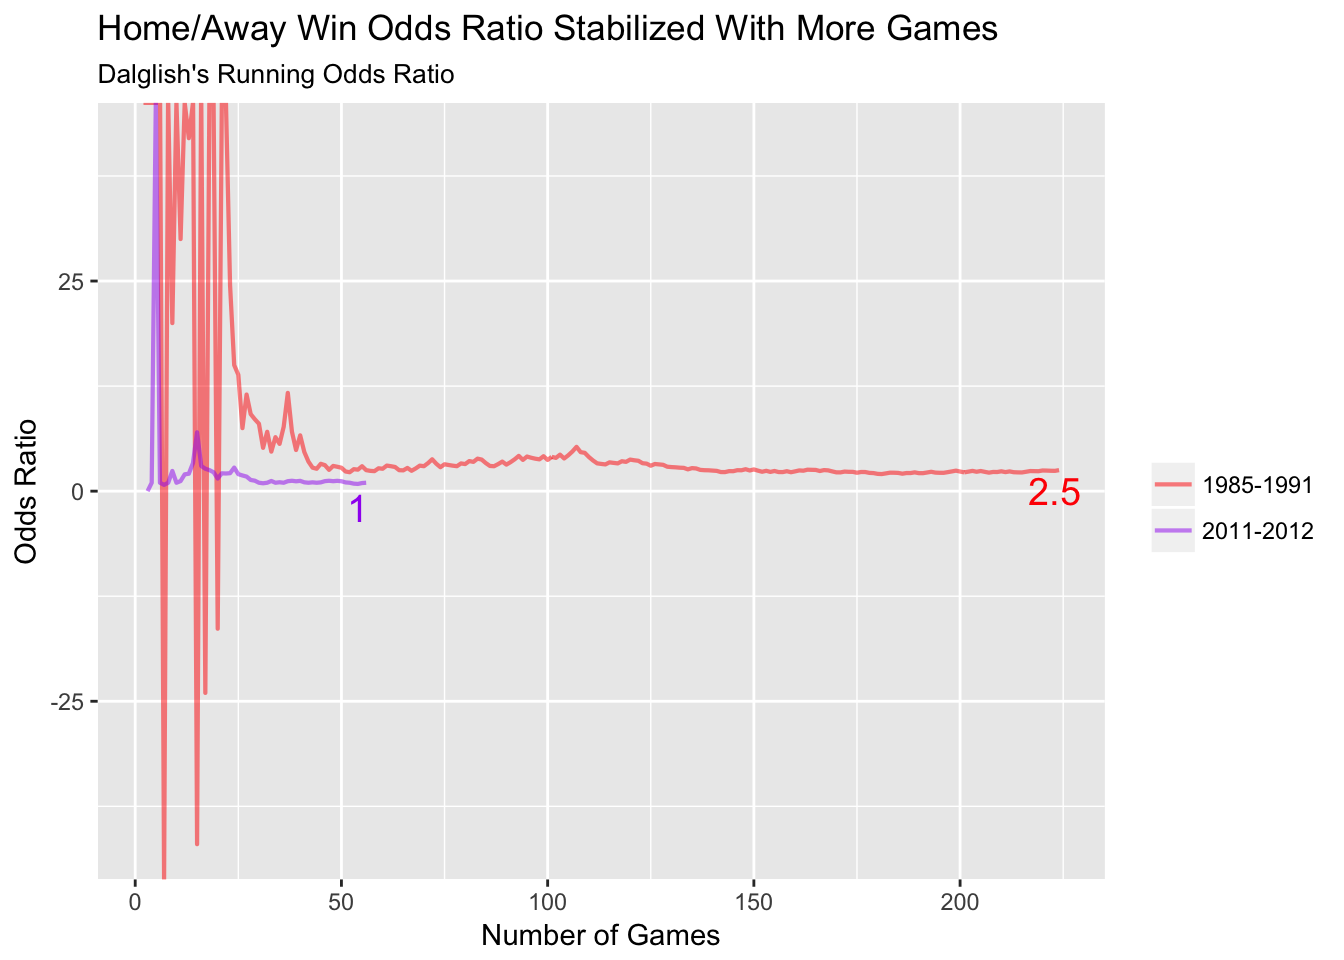
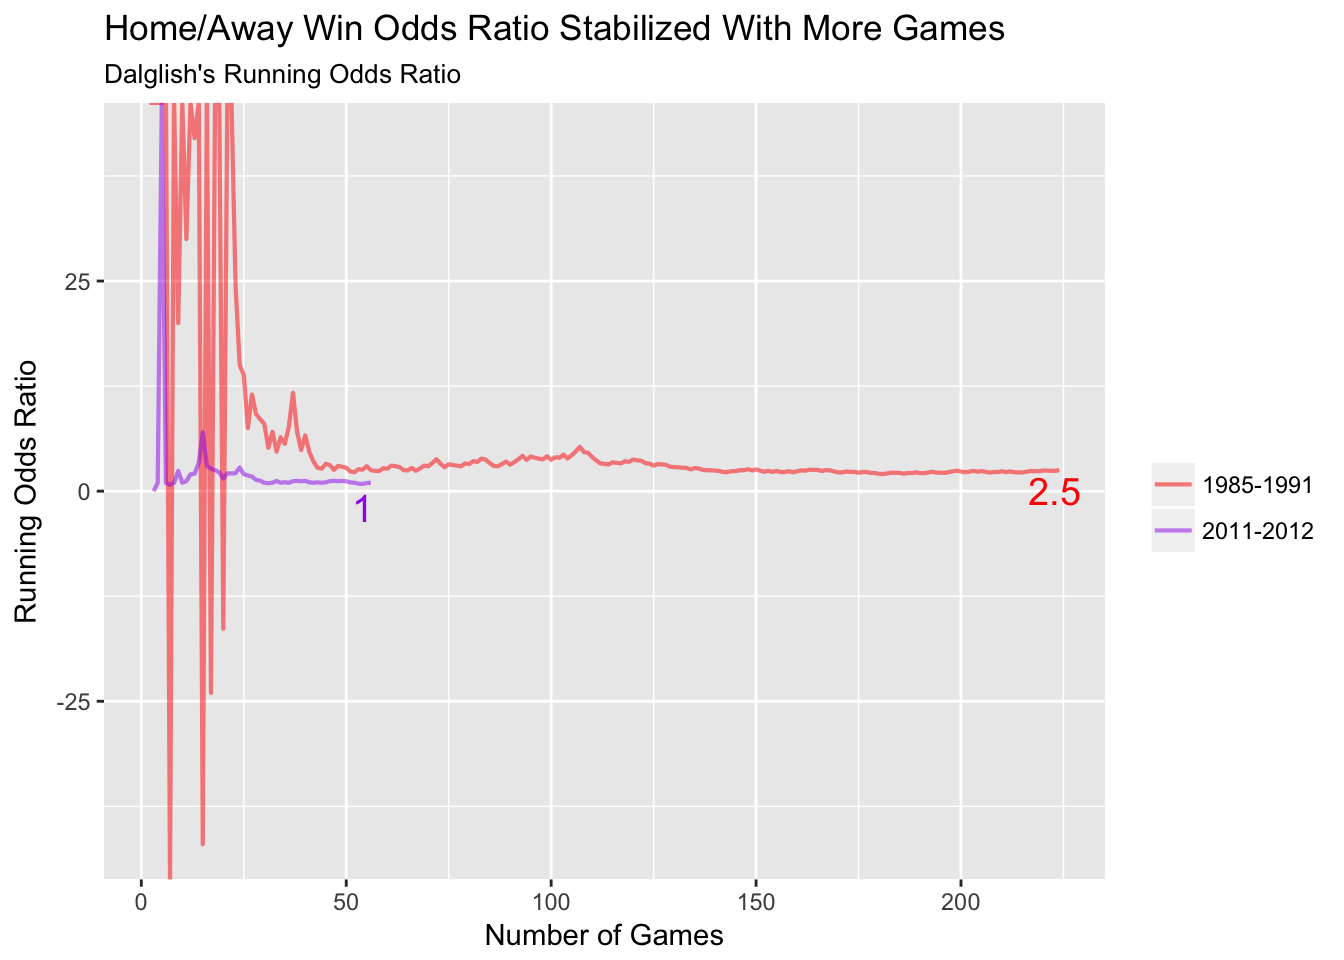
Add narrative

diff --git a/content/post/2017-11-28-king-kenny-comparison.html b/content/post/2017-11-28-king-kenny-comparison.html
@@ -1,6 +1,5 @@
 ---
-title: "Follow-Up: Comparing the Home and Away Wins of Kenny Dalglish’s Managerial
-  Runs"
+title: "Comparing Home and Away Wins of Kenny Dalglish’s Managerial Runs (Also, Did It Matter?)"
 author: Ryan Estrellado
 date: '2017-11-28'
 slug: king-kenny-comparison
@@ -11,7 +10,13 @@ draft: true
 
 
 
-{{% tweet "935230903177097216" %}}
+<p>After my <a href="https://ryanestrellado.netlify.com/post/lfc-home-and-away-odds/">first post</a>, <span class="citation">@HighlandDataSci</span> <a href="https://twitter.com/HighlandDataSci">on Twitter</a> had a great question: Was Kenny Dalglish’s home and away win odds ratio different during his first run as manager than his second?</p>
+{{% tweet "935343055535710208" %}}
+<p>About those circumstances: Dalglish lead Liverpool to 10 trophies between 1985 and 1991. He returned in 2011 and won the League Cup during his short run of games, but his <a href="http://www.bbc.com/sport/football/18073446">mission in the end was to guide the club</a> between the managerial run of Roy Hodsgon (who managed too few games for me to justify including in the analysis) and that of Brendan Rodgers.</p>
+<p>In this analysis we’ll compare the home and away win odds of Dalglish’s two seasons, but we’ll also start exploring the question “What does all this mean for winning games?”</p>
+<div id="setting-up-the-analysis" class="section level1">
+<h1>Setting Up the Analysis</h1>
+<p>For the sake of brevity, I’ll refer readers to <a href="https://ryanestrellado.netlify.com/post/lfc-home-and-away-odds/">my first post</a> to look at the code I used to build the initial Liverpool managers dataset. We’ll be using the <code>engsoccerdata</code> package and a few others.</p>
 <pre class="r"><code>#install_github(&quot;jalapic/engsoccerdata&quot;)
 library(engsoccerdata)
 library(tidyverse)
@@ -21,6 +26,7 @@ library(rvest)
 library(knitr)</code></pre>
 <pre><code>## Warning in as.POSIXlt.POSIXct(x, tz): unknown timezone &#39;default/America/
 ## Los_Angeles&#39;</code></pre>
+<p>We’ll be starting with the same dataset I used in the first post, which we assigned to the variable <code>lfc</code>. We’ll narrow it down to only Kenny Dalglish’s games and split his games up so we can look at his two runs separately.</p>
 <pre class="r"><code>dalglish &lt;- lfc %&gt;% 
   # Add a column for wins
   mutate(win = 0,
@@ -34,10 +40,15 @@ library(knitr)</code></pre>
          res = ifelse(result == &quot;D&quot;, 1, res)) %&gt;% 
   select(Date, mngr, at_anf, win, res, hgoal, vgoal, goaldif) %&gt;% 
   filter(mngr == &quot;Dalglish&quot;) %&gt;% 
+  # Split into first and second run
   mutate(run = &quot;&quot;, 
          run = ifelse(Date &gt;= ymd(19850817) &amp; Date &lt;= ymd(19910209), 
                       &quot;first&quot;, 
                       &quot;second&quot;)) </code></pre>
+</div>
+<div id="comparing-odds-ratios" class="section level1">
+<h1>Comparing Odds Ratios</h1>
+<p>When we calculate the ratio of home odds to away odds for each of Dalglish’s seasons, we see that his home/away win odds ratio was slightly higher during his first run than it was during his second. This means that in his first run, his home win odds were 2.5 times bigger than his away win odds. In his second run, his odds of winning at home were the same as his odds of winning away.</p>
 <pre class="r"><code>dalglish_odds &lt;- dalglish %&gt;% 
   # Add a column for wins
   group_by(mngr, run) %&gt;% 
@@ -80,7 +91,11 @@ kable(dalglish_odds, caption = &quot;Dalglish&#39;s Home and Away Wins Odds Rati
 </tr>
 </tbody>
 </table>
-<pre class="r"><code>odds_ratio &lt;- function(h, tot_h, a, tot_a) {
+<p>Before looking at these numbers, I guessed that a longer run of games and a much different era of winning for Liverpool would require a more even performance between home and away games. We can see that the first condition is definitely there. King Kenny’s first run as Liverpool manager was for 224 games, compared to his second run of only 56. You’d expect that with a larger bucket of games to examine, we’d begin to see the randomness shake out to reveal the odds ratio that Dalglish eventually settled on. So was the second odds ratio a result of too few games for Dalglish to settle in? Let’s look at that by plotting a game by game cumulative odds ratio for each managerial run.</p>
+<p>We’ll create the plot by adding a column of game numbers for each run and then calculating the home/away win odds ratio as it changed game by game. Then we’ll plot the two running odds ratios together so we can compare.</p>
+<pre class="r"><code># Add running totals and odds ratios to dataset
+
+odds_ratio &lt;- function(h, tot_h, a, tot_a) {
   # Calculates odd ratios 
   # 
   # Args 
@@ -94,7 +109,9 @@ kable(dalglish_odds, caption = &quot;Dalglish&#39;s Home and Away Wins Odds Rati
 running_odds &lt;- dalglish %&gt;% 
   group_by(run) %&gt;%
   mutate(run_hwin = ifelse(at_anf == &quot;Anfield&quot; &amp; win == 1, 1, 0), 
+         # Running total of home wins
          run_hwin = cumsum(run_hwin), 
+         # Running total of home games
          run_hgames = ifelse(at_anf == &quot;Anfield&quot;, 1, 0), 
          run_hgames = cumsum(run_hgames), 
          run_awin = ifelse(at_anf == &quot;Away&quot; &amp; win == 1, 1, 0), 
@@ -111,7 +128,9 @@ running_odds &lt;- dalglish %&gt;%
   bind_rows() %&gt;% 
   # Remove NaNs caused by 0 home and away games played
   filter(!is.nan(run_odds_ratio))</code></pre>
-<pre class="r"><code># Parameters for annotate
+<pre class="r"><code># Make the plot 
+
+# Parameters for annotate
 first &lt;- running_odds %&gt;% 
   filter(run == &quot;first&quot;) %&gt;%
   filter(row_number() == nrow(.))
@@ -139,9 +158,26 @@ ggplot(data = running_odds, aes(x = game, y = run_odds_ratio, color = run)) +
   labs(title = &quot;Home/Away Win Odds Ratio Stabilized With More Games&quot;,
        subtitle = &quot;Dalglish&#39;s Running Odds Ratio&quot;, 
        x = &quot;Number of Games&quot;, 
-       y = &quot;Odds Ratio&quot;, 
+       y = &quot;Running Odds Ratio&quot;, 
        color = &quot;&quot;)</code></pre>
 <p><img src="/post/2017-11-28-king-kenny-comparison_files/figure-html/unnamed-chunk-7-1.png" width="672" /></p>
+<p>The odds ratio jumps up and down quite a bit before 25 games before it starts to settle down, but it looks like the odds ratio flattened out earlier during the second run than on the first. There’s no way of knowing for sure how Dalglish’s second run would have progressed beyond the fifty or so games that he managed, but what is striking is how consistent he was in both of these seasons compared to other managers. By comparison, Bill Shankly’s odds of winning a game at home were almost five times the odds of winning away, and he managed Liverpool for 611 games.</p>
+<div id="quick-detour-how-the-number-of-games-affects-the-odds" class="section level3">
+<h3>Quick Detour: How The Number of Games Affects the Odds</h3>
+<p>About 6 percent of the odds ratio values in the Dalglish dataset came out as infinity and non-numbers, so I did some exploring to understand why that was. I’ll share that here, but feel free to skip this part if you’re not interested.</p>
+<p>It makes sense that the odds ratio jumps up and down a lot in the first few games, since we know that when the total home and away games are low each additional win makes a bigger difference. Here are some odds calculations that compare the value of 1 win out of 2 games with the value of 1 win out of 100 games. If you play less games, every additional win tends to shake the odds ratio up more than if you are on a longer run of games.</p>
+<pre class="r"><code># Value of 1 win if you&#39;ve played 2 games
+(1/2) / (1 - 1/2) </code></pre>
+<pre><code>## [1] 1</code></pre>
+<pre class="r"><code># Value of 1 win of you&#39;ve played 100 games
+(1/100) / (1 - 1/100)</code></pre>
+<pre><code>## [1] 0.01010101</code></pre>
+</div>
+</div>
+<div id="but-what-really-matters-here-aka-ryan-overthinks-it-again" class="section level1">
+<h1>But What Really Matters Here? (aka, Ryan overthinks it again)</h1>
+<p>I was chatting with a friend and fellow Liverpool supporter about Klopp’s superb consistency of home odds to away odds. At the time of writing, his odds of winning at home are about the same as winning away over about 50 games. But it struck me later that the discussion may be missing the point. Evaluating a manager using their relative difference between home win odds and away win odds is a bit like comparing highway and city gas mileage in cars: you can find a car that is the most consistent between the two efficiency measurements, but does that necessarily mean that car is getting you the most miles for a gallon of gas?</p>
+<p>Football is about winning games, so let’s examine the managers that had the highest percentage of wins to see if they were also the most consistent home and away winners.</p>
 <pre class="r"><code>wins &lt;- lfc %&gt;% 
   # Add a column for wins
   mutate(win = 0,
@@ -155,7 +191,9 @@ ggplot(data = running_odds, aes(x = game, y = run_odds_ratio, color = run)) +
             total_awins = sum(at_anf != &quot;Anfield&quot; &amp; win == 1), 
             total_agames = sum(at_anf != &quot;Anfield&quot;), 
             total_games = total_hgames + total_agames, 
-            win_perc = 100 * ((total_hwins + total_awins) / total_games)) %&gt;% 
+            win_perc = round(
+              100 * ((total_hwins + total_awins) / total_games), 2)
+            ) %&gt;% 
   ungroup() %&gt;% 
   # Calculate the the odds ratios
   mutate(h_odds = (total_hwins / total_hgames) / (1 - total_hwins / total_hgames), 
@@ -167,7 +205,7 @@ ggplot(data = running_odds, aes(x = game, y = run_odds_ratio, color = run)) +
 
 kable(head(wins, n = 5), caption = &quot;Top Five Win Percentages&quot;)</code></pre>
 <table>
-<caption><span id="tab:unnamed-chunk-8">Table 2: </span>Top Five Win Percentages</caption>
+<caption><span id="tab:unnamed-chunk-9">Table 2: </span>Top Five Win Percentages</caption>
 <thead>
 <tr class="header">
 <th align="left">mngr</th>
@@ -181,42 +219,50 @@ kable(head(wins, n = 5), caption = &quot;Top Five Win Percentages&quot;)</code><
 <td align="left">Barclay</td>
 <td align="right">88</td>
 <td align="right">5.40</td>
-<td align="right">57.95455</td>
+<td align="right">57.95</td>
 </tr>
 <tr class="even">
 <td align="left">Dalglish</td>
 <td align="right">280</td>
 <td align="right">2.03</td>
-<td align="right">57.14286</td>
+<td align="right">57.14</td>
 </tr>
 <tr class="odd">
 <td align="left">Paisley</td>
 <td align="right">375</td>
 <td align="right">4.20</td>
-<td align="right">56.00000</td>
+<td align="right">56.00</td>
 </tr>
 <tr class="even">
 <td align="left">Benítez</td>
 <td align="right">228</td>
 <td align="right">2.98</td>
-<td align="right">55.26316</td>
+<td align="right">55.26</td>
 </tr>
 <tr class="odd">
 <td align="left">Ashworth</td>
 <td align="right">136</td>
 <td align="right">3.85</td>
-<td align="right">52.94118</td>
+<td align="right">52.94</td>
 </tr>
 </tbody>
 </table>
+<p>The five managers with the best win percentage do not all share home and away consistency. Though it’s worth noting that none of them had the lopsidedness of Graeme Souness, who had home win odds approaching 8 times that of his away win odds and finished his managerial run winning 41 percent of his games, fifth lowest on our win percentage list.</p>
+<div class="figure">
+<img src="https://media.giphy.com/media/AylNEiYGiIDg4/giphy.gif" />
+
+</div>
+<p>Are the odds ratios just as varied among managers who didn’t win as many games overall? We can plot all the managers in the dataset to see how spread out the big winners were along an axis of home/win odds ratios.</p>
 <pre class="r"><code>top_5 &lt;- head(wins, n = 5)
 
 ggplot(data = wins, aes(x = odds_ratio, y = win_perc)) +
   geom_point(aes(size = total_games), alpha = .5) + 
   geom_point(data = top_5, color = &quot;red&quot;, aes(size = total_games)) +
   geom_text(data = wins, aes(label = mngr), nudge_x = .6, check_overlap = T) + 
-  labs(title = &quot;Home/Away Win Odds Ratio Varies Across Win Percentages&quot;, 
-       subtitle = &quot;LFC Top Flight League Games 1893 - 2017&quot;, 
+  labs(title = &quot;Win Percentage Varies Across Home/Away Win Odds Ratio&quot;, 
+       subtitle = &quot;Liverpool Top Flight League Games 1893 - 2017&quot;, 
        x = &quot;home/away win odds ratio&quot;, 
        y = &quot;win percentage&quot;)</code></pre>
-<p><img src="/post/2017-11-28-king-kenny-comparison_files/figure-html/unnamed-chunk-9-1.png" width="672" /></p>
+<p><img src="/post/2017-11-28-king-kenny-comparison_files/figure-html/unnamed-chunk-10-1.png" width="672" /></p>
+<p>Pretty spread out! Dalglish’s odds ratio was about as consistent as Fagan, Rodgers, and Houllier over both his runs, but he had a higher win percentage. On the other hand, Barclay’s win percentage was comparable to Dalglish’s but he somehow managed a home/away odds ratio almost three times that of Dalglish’s. This is all a long way of saying that there are more ways to get a high win percentage than being just as good at home as you are away.</p>
+</div>
